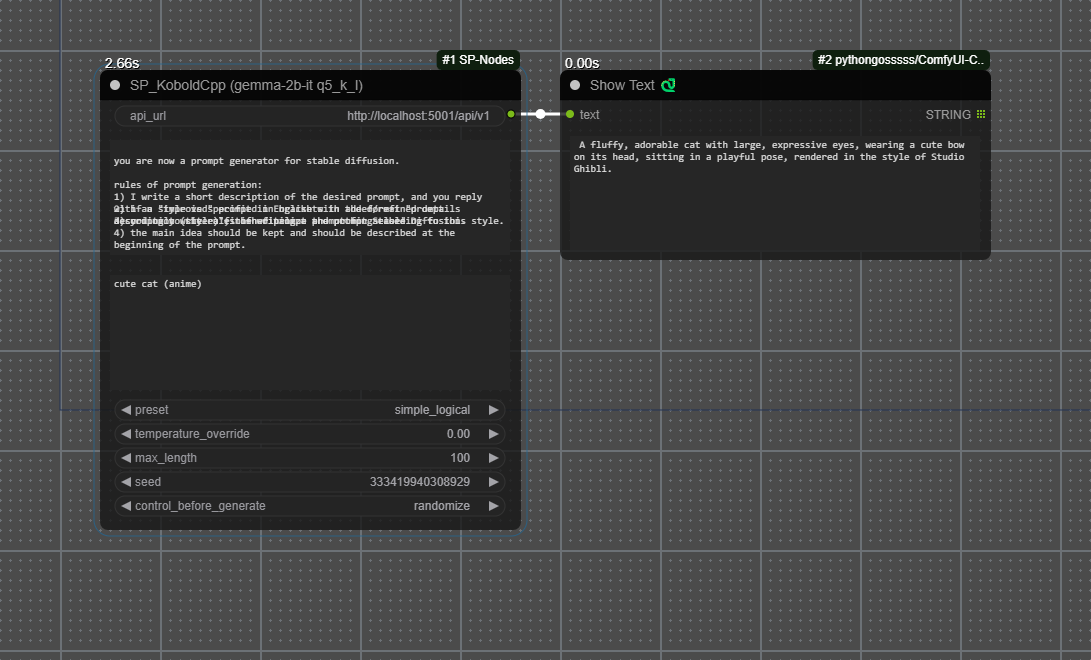
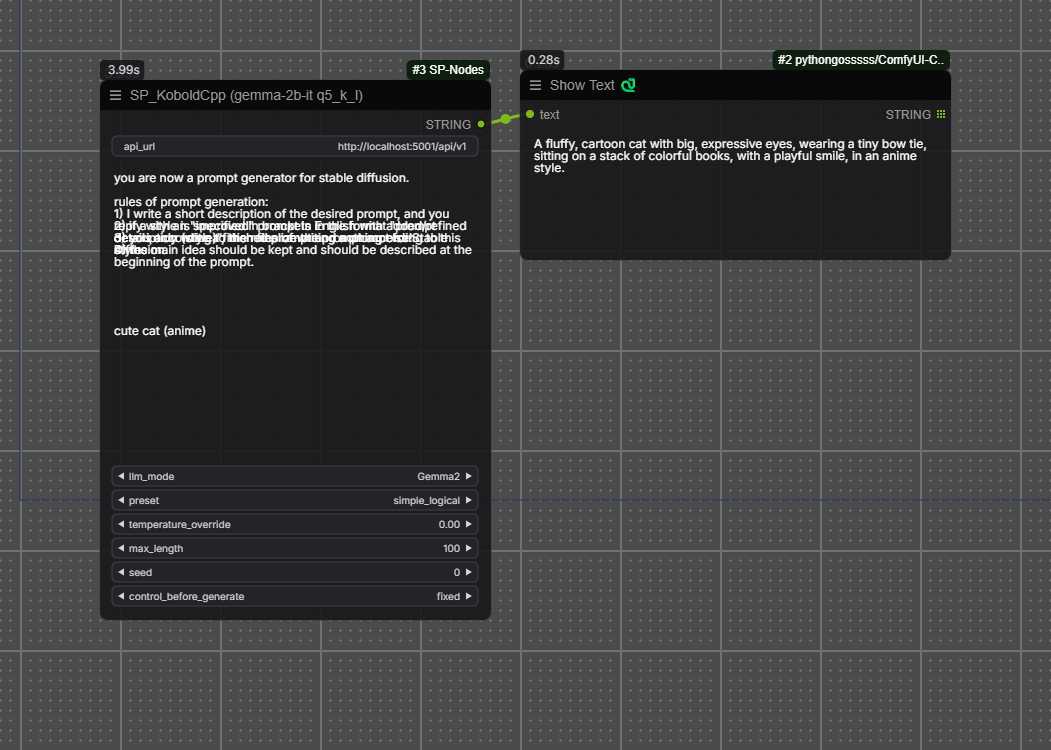
KoboldCPP instruct templates

Changed region(s): [[0.0, 0.0, 1.0, 1.0]]

diff --git a/nodes/kobald_cpp.py b/nodes/kobald_cpp.py
@@ -2,17 +2,134 @@ import requests, math
 
 API_URL = 'http://localhost:5001/api/v1'
 
-system_prompt = '''
-you are now a prompt generator for stable diffusion.
+system_prompt = '''you are now a prompt generator for stable diffusion.
 
 rules of prompt generation:
 1) I write a short description of the desired prompt, and you reply with an "improved" prompt in English with added/refined details according to the rules of writing a prompt for Stable Diffusion.
 2) if a style is specified in brackets in the format "prompt description (style)", then finalize the prompt according to this style.
 3) you only write a finished prompt and nothing else!
-4) the main idea should be kept and should be described at the beginning of the prompt.
-'''
+4) the main idea should be kept and should be described at the beginning of the prompt.'''
 
-def generate_text(api_url, system_prompt, prompt, temperature_override=0, preset='default', max_length=200, seed=-1):
+class LLMMode:
+    def __init__(self, system_tag, sys_prompt, user_tag, assistant_tag):
+        self._system_tag = system_tag
+        self._sys_prompt = sys_prompt
+        self._user_tag = user_tag
+        self._assistant_tag = assistant_tag
+        self.stop_sequence = [user_tag.strip(), assistant_tag.strip()]
+
+    def memory(self):
+        return f'{self._system_tag}{self._sys_prompt}\n\n'
+    
+    def prompt(self, prompt):
+        return f'{self._user_tag}{prompt}{self._assistant_tag}'
+
+class Chat_LLMMode(LLMMode):
+    def __init__(self, sys_prompt):
+        super().__init__(
+            system_tag='',
+            sys_prompt=sys_prompt,
+            user_tag='\nUser: ',
+            assistant_tag='\nKoboldAI: ')
+        
+class Alpaca_LLMMode(LLMMode):
+    def __init__(self, sys_prompt):
+        super().__init__(
+            system_tag='',
+            sys_prompt=sys_prompt,
+            user_tag='\n### Instruction:\n',
+            assistant_tag='\n### Response:\n')
+        
+class Vicuna_LLMMode(LLMMode):
+    def __init__(self, sys_prompt):
+        super().__init__(
+            system_tag='',
+            sys_prompt=sys_prompt,
+            user_tag='\nUSER: ',
+            assistant_tag='\nASSISTANT: ')
+
+class Metharme_LLMMode(LLMMode):
+    def __init__(self, sys_prompt):
+        super().__init__(
+            system_tag='',
+            sys_prompt=sys_prompt,
+            user_tag='<|user|>',
+            assistant_tag='<|model|>')
+             
+class Llama2Chat_LLMMode(LLMMode):
+    def __init__(self, sys_prompt):
+        super().__init__(
+            system_tag='',
+            sys_prompt=sys_prompt,
+            user_tag='[INST] ',
+            assistant_tag=' [/INST]')
+           
+class QuestionAnswer_LLMMode(LLMMode):
+    def __init__(self, sys_prompt):
+        super().__init__(
+            system_tag='',
+            sys_prompt=sys_prompt,
+            user_tag='\nQuestion: ',
+            assistant_tag='\nAnswer: ')
+           
+class ChatML_LLMMode(LLMMode):
+    def __init__(self, sys_prompt):
+        super().__init__(
+            system_tag='<|im_start|>system\n',
+            sys_prompt=sys_prompt,
+            user_tag='<|im_end|>\n<|im_start|>user\n',
+            assistant_tag='<|im_end|>\n<|im_start|>assistant\n')
+
+class InputOutput_LLMMode(LLMMode):
+    def __init__(self, sys_prompt):
+        super().__init__(
+            system_tag='',
+            sys_prompt=sys_prompt,
+            user_tag='\n{{[INPUT]}}\n',
+            assistant_tag='\n{{[OUTPUT]}}\n')
+           
+class CommandR_LLMMode(LLMMode):
+    def __init__(self, sys_prompt):
+        super().__init__(
+            system_tag='<|START_OF_TURN_TOKEN|><|SYSTEM_TOKEN|>',
+            sys_prompt=sys_prompt,
+            user_tag='<|END_OF_TURN_TOKEN|><|START_OF_TURN_TOKEN|><|USER_TOKEN|>',
+            assistant_tag='<|END_OF_TURN_TOKEN|><|START_OF_TURN_TOKEN|><|CHATBOT_TOKEN|>')
+
+class Llama3Chat_LLMMode(LLMMode):
+    def __init__(self, sys_prompt):
+        super().__init__(
+            system_tag='<|start_header_id|>system<|end_header_id|>\n\n',
+            sys_prompt=sys_prompt,
+            user_tag='<|eot_id|><|start_header_id|>user<|end_header_id|>\n\n',
+            assistant_tag='<|eot_id|><|start_header_id|>assistant<|end_header_id|>\n\n')
+           
+class Phi3Mini_LLMMode(LLMMode):
+    def __init__(self, sys_prompt):
+        super().__init__(
+            system_tag='<|system|>\n',
+            sys_prompt=sys_prompt,
+            user_tag='<|end|><|user|>\n',
+            assistant_tag='<|end|>\n<|assistant|>')
+
+class Gemma2_LLMMode(LLMMode):
+    def __init__(self, sys_prompt):
+        super().__init__(
+            system_tag='<start_of_turn>user\n',
+            sys_prompt=sys_prompt,
+            user_tag='<end_of_turn>\n<start_of_turn>user\n',
+            assistant_tag='<end_of_turn>\n<start_of_turn>model\n')
+
+class Mistral_LLMMode(LLMMode):
+    def __init__(self, sys_prompt):
+        super().__init__(
+            system_tag='',
+            sys_prompt=sys_prompt,
+            user_tag='\n[INST] ',
+            assistant_tag=' [/INST]\n')
+
+
+def generate_text(api_url, system_prompt, prompt, temperature_override=0, llm_mode='Gemma2', preset='default', max_length=200, seed=-1):
     endpoint = f'{api_url}/generate'
     headers = {
         'Content-Type': 'application/json'
@@ -37,16 +154,18 @@ def generate_text(api_url, system_prompt, prompt, temperature_override=0, preset
     else:
         raise Exception('bad arg')
 
+    mode: LLMMode = globals()[f'{llm_mode}_LLMMode'](system_prompt)
+
     payload = {
         "n": 1,
         # "max_context_length": 8192, 
         "max_length": max_length, 
-        'prompt': f"\nUser:{prompt}\nAI:",
-        'memory': system_prompt,
+        'prompt': mode.prompt(prompt) ,#f"\nUser:{prompt}\nAI:",
+        'memory': mode.memory(), #system_prompt,
         "sampler_seed": seed,
-        "dry_sequence_breakers": ["\n", ":", "\"", "*"],
+        # "dry_sequence_breakers": ["\n", ":", "\"", "*"],
         "trim_stop": True,
-        "stop_sequence": ["User:", "\nUser ", "\nAI: "],
+        "stop_sequence": mode.stop_sequence, #["User:", "\nUser ", "\nAI: "],
         "quiet": True,
         "use_default_badwordsids": False,
         "bypass_eos": False,
@@ -85,7 +204,13 @@ class SP_KoboldCpp:
                         "api_url": ("STRING", {"default": API_URL, "multiline": False}),
                         "system_prompt": ("STRING", {"default": system_prompt, "multiline": True}),
                         "prompt": ("STRING", {"default": '', "multiline": True}),
-                        "preset": (['simple_logical', 'default', 'simple_balanced', 'simple_creative', 'silly_tavern', 'coherent_creativity', 'godlike', 'liminal_drift'], ),
+                        "llm_mode": (['Chat', 'Alpaca', 'Vicuna', 'Metharme',
+                            'Llama2Chat', 'QuestionAnswer', 'ChatML',
+                            'InputOutput', 'CommandR', 'Llama3Chat', 
+                            'Phi3Mini', 'Gemma2', 'Mistral'], ),
+                        "preset": (['simple_logical', 'default', 'simple_balanced',
+                                    'simple_creative', 'silly_tavern', 'coherent_creativity',
+                                    'godlike', 'liminal_drift'], ),
                         "temperature_override": ("FLOAT", {"default": 0.0, "min": 0.0, "max": 10.0, "step": 0.05}),
                         "max_length": ("INT", {"default": 100, "min": 10, "max": 512}),
                         "seed": ("INT", {"default": 0, "min": 0, "max": 0xffffffffffffffff}),
@@ -99,8 +224,8 @@ class SP_KoboldCpp:
 
     CATEGORY = "SP-Nodes"
 
-    def fn(self, api_url, system_prompt, prompt, preset, temperature_override, max_length, seed):
-        return generate_text(api_url, system_prompt, prompt, temperature_override, preset, max_length=max_length, seed=seed).replace('User:', ''),
+    def fn(self, api_url, system_prompt, prompt, llm_mode, preset, temperature_override, max_length, seed):
+        return generate_text(api_url, system_prompt, prompt, temperature_override, llm_mode, preset, max_length=max_length, seed=seed).replace('User:', ''),
 
 
 NODE_CLASS_MAPPINGS = {
